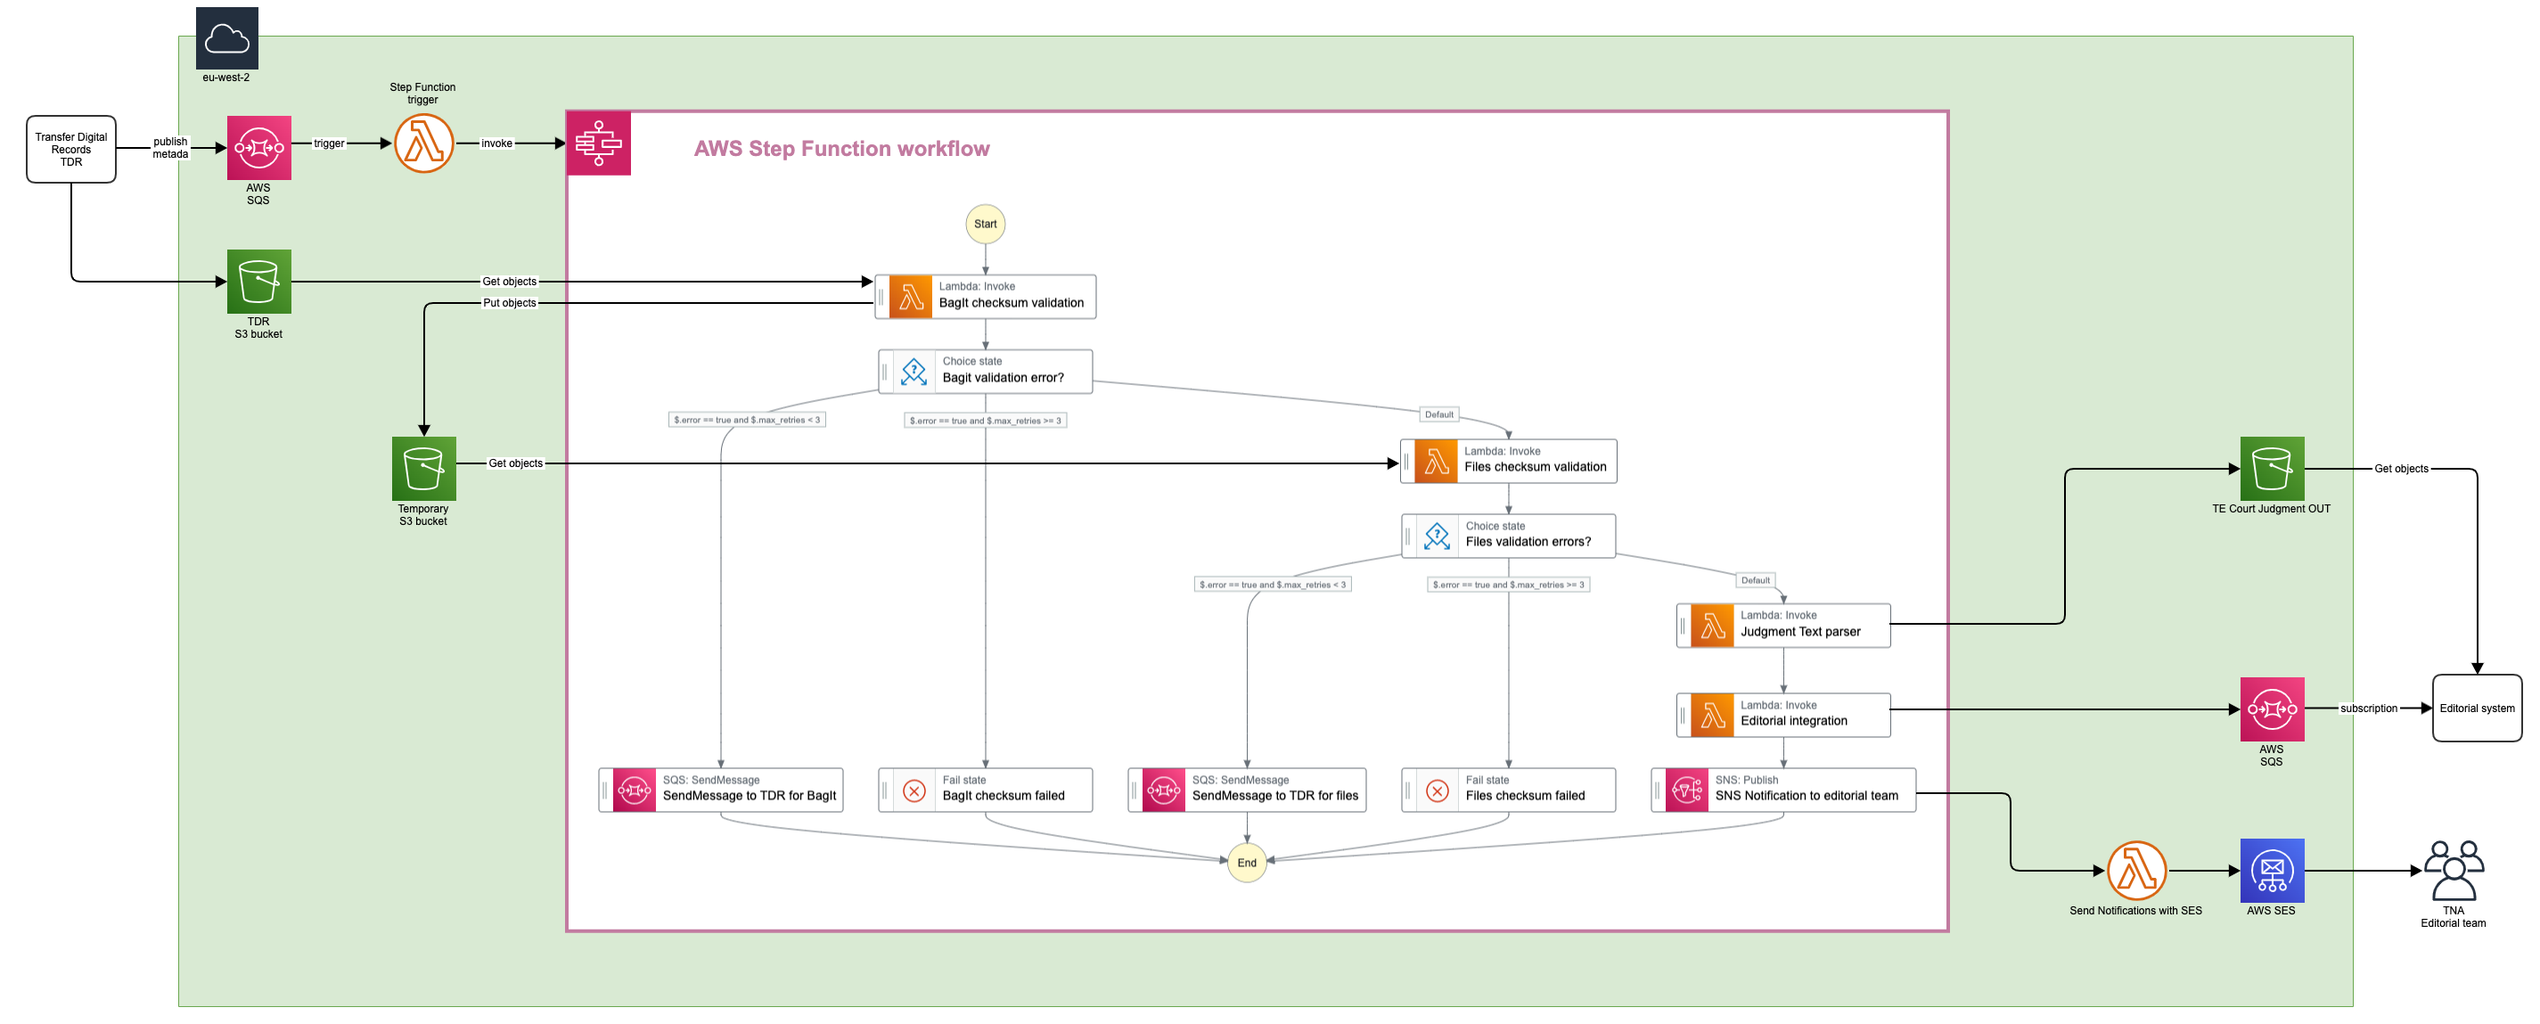
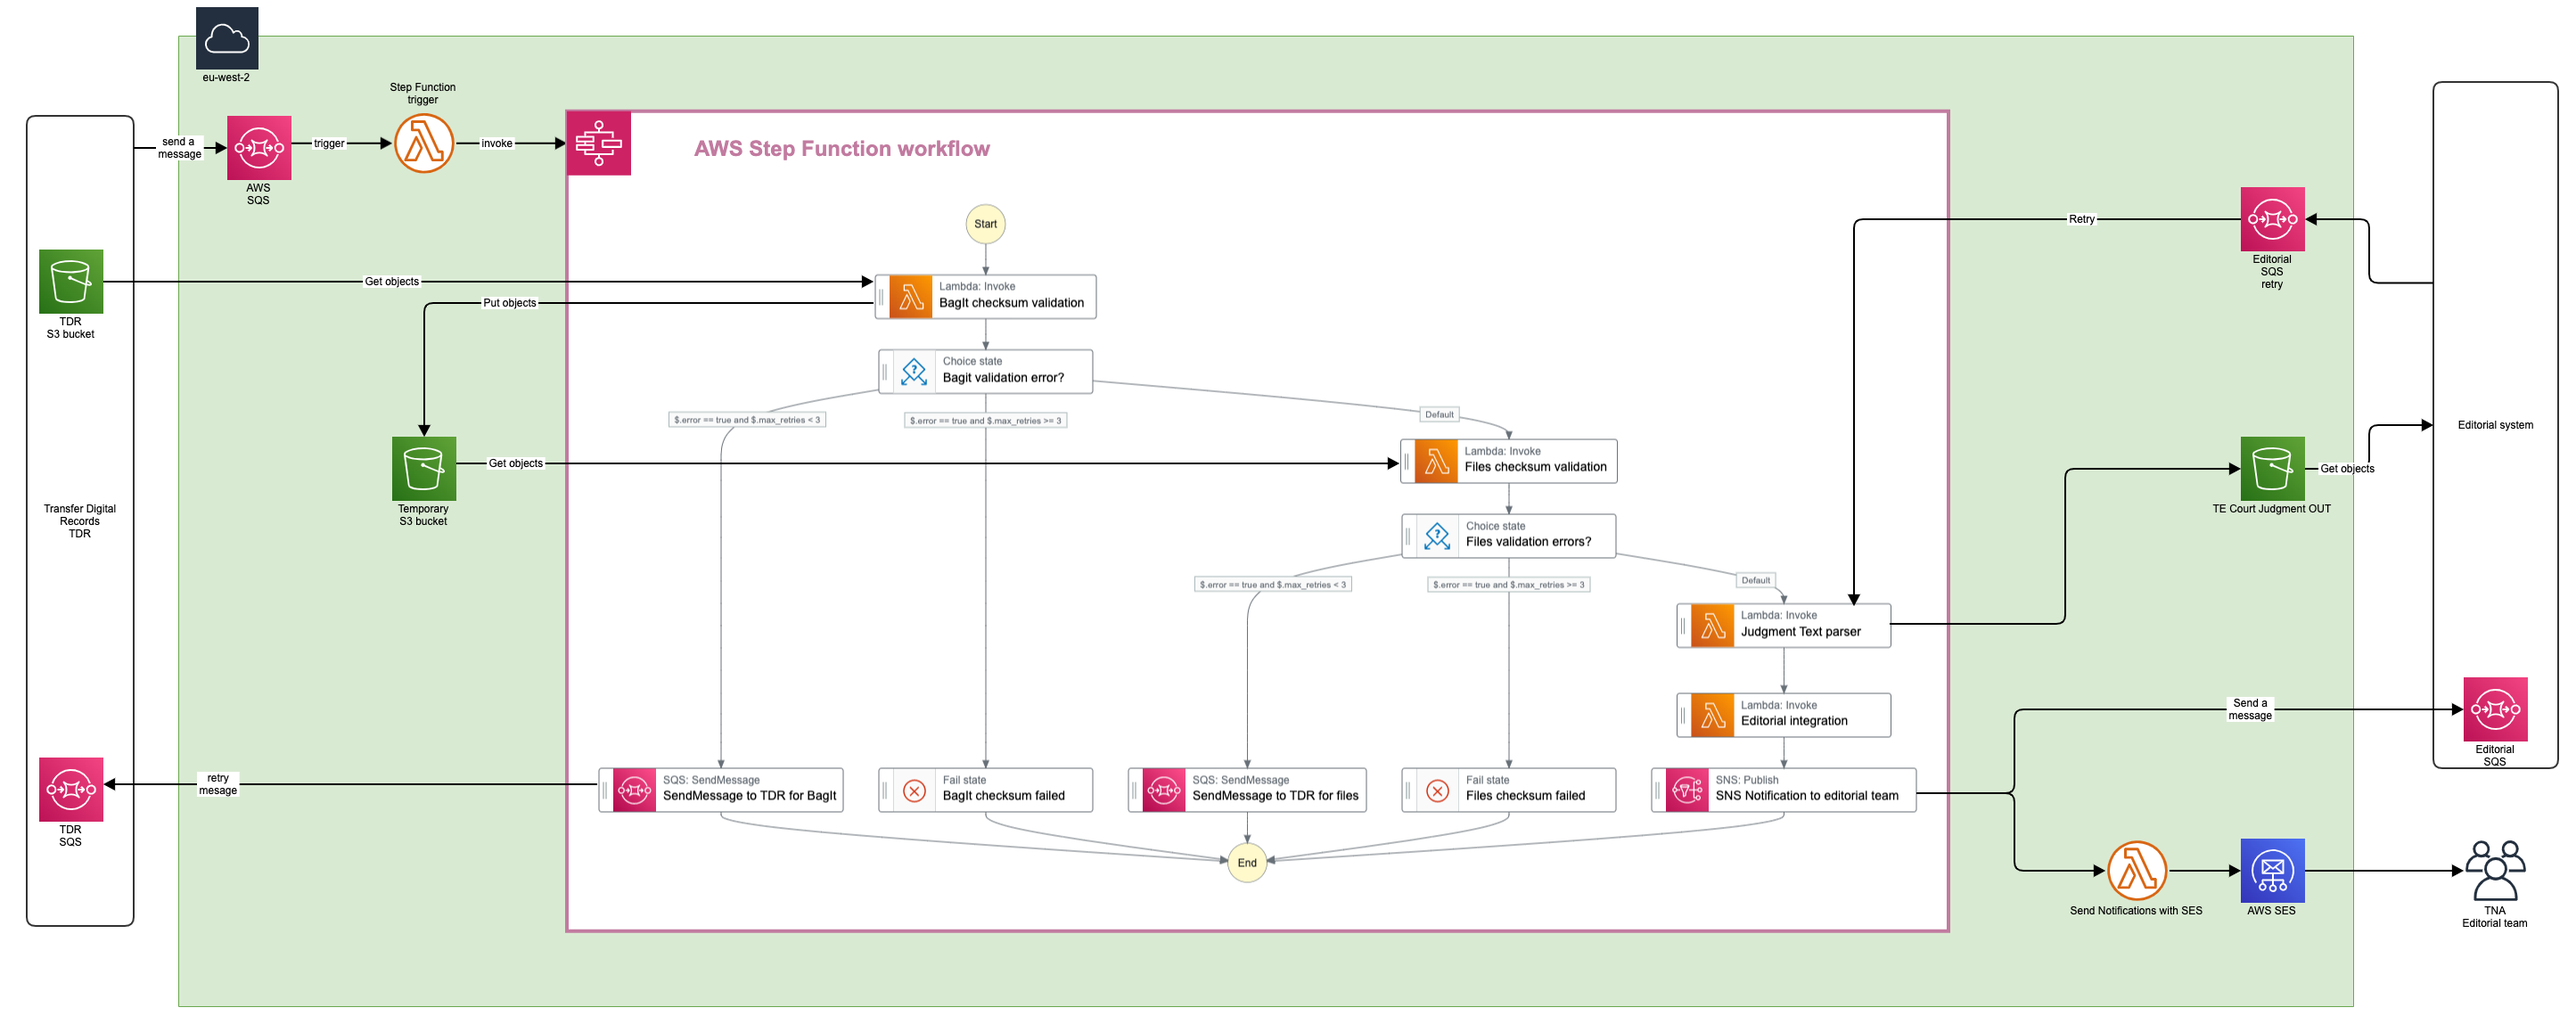
Updated the documentation.

diff --git a/editorial-system-integration/README.md b/editorial-system-integration/README.md
@@ -11,24 +11,29 @@
 ![pic1](../beta-mvp-architecture/diagrams/aws-step-function-workflow-for-te.png)
 
 The TE will produce the following outputs for the Editorial system:
-1. the data payload (i.e., the judgment itself)
+1. the data payload (the judgment itself)
 2. the XML outputs of the parser 
 3. any processing errors so the editorial team can make an assessment on whether the publishing can go ahead
-4. a metadata file (XML or JSON format) which contains the TE version and the text Parser version
+4. a metadata file (in a JSON format) which contains the TE version and the text Parser version, as shown below
+```json
+{
+  "te-version" : "1.0.0",
+  "text-parser-version" : "1.0.1",
+  "uploader-email" : "sample@test.com"
+}
+```
 
 ## Message exchange method and format
 
 TE will exchange messages with Editorial system using an AWS SQS queue as per the [MVP Beta technical design](./../beta-mvp-architecture/README.md). The message will have the following format:
 
 ```json
-
 {
   "consignment-reference": "TDR-2022-C67H",
   "s3-folder-url": "https://te-editorial-out-int.s3.eu-west-2.amazonaws.com/TDR-2022-C67H.tar.gz?X-Amz-Security-Token=IQoJb3JpZ2luX2VjEJf%2F%2F%2F%2F%2F%2F%2F%2F%2F%2FwEaCWV1LXdlc3QtMiJIMEYCIQDLTmaISu2r83kDSVlR%2F1uF1CgUv5rzy4iCG8jsG9%2F5wgIhAIyi2R%2F7XSdm6h7KLPBB6J0RVUCFO%2FWTgBL%2F1vtzKA3YKqQCCPD%2F%2F%2F%2F%2F%2F%2F%2F%2F%2FwEQAhoMMjI5NTU0Nzc4Njc1Igye71PDmIudFYcsh5cq%2BAET%2F7sg5ecibhtmTRT7wpgPySuAet%2FABHE%2B49m53K7v4%2F3NTtTf9grvosoN9iO0DbvoaKaMccLJRlvCeLJ0Alsmh2NQf6w91t75AYKiMQ6oLIXmwc05Ewj2kND3L8uwBsjRoFNReNrWXFW1D7jiqiQpAw6BA05UW9K8%2Fwip55WrYyzBt84btm0Zy2ryVwseFEaOsEHHjglt%2Bl83r1GkGt7iLcJ7ZpvSAp6WjI3zRxqzyXc%2B%2Bs0IsJukZ9P3NQZIbeUADegqDhOq6BHoLTYryajRrSUX3WiGFf%2B7%2FVI55muASwtUYCkR20wQutty2xKMXGVwlZSgpw%2BkiTDsuPOQBjqZAQafrMvrVG5FO5mPvY8rwVfag9z%2FhiOP7juMJ7GEwaNoMouZJvbslIGk6mfOWxfZ1qE99oRlKt9YuF1u53bPynC17N1vfIr9kW2bEsDLxndz35ZRR2yEjwhgwulbZdykVxjc%2BM%2BiDiGrtj53%2BlAOy8xSFZl1AMkBuAtNjAsTqGNyHzLQSJfeb83%2BoOIPe4O4%2B7wM7hStr28rAQ%3D%3D&X-Amz-Algorithm=AWS4-HMAC-SHA256&X-Amz-Date=20220228T143015Z&X-Amz-SignedHeaders=host&X-Amz-Expires=60&X-Amz-Credential=ASIATK4UH6IZTWHYAHCS%2F20220228%2Feu-west-2%2Fs3%2Faws4_request&X-Amz-Signature=c39106d6f8b2e23ab4c896825bdc4489f4fb4bb41d93f4b9ec70e52aa0ad8399",
   "consignment-type": "judgment",
   "number-of-retries": 0
 }
-
 ```
 
 ## Credentials exchange and bucket permissions
@@ -41,4 +46,20 @@ The message will contain [S3 presigned URLs](https://docs.aws.amazon.com/AmazonS
 
 ## Retry mechanism
 
-To Do
+The retry mechanism is implemented using an additional AWS SQS queue in the AWS where the TE is deployed, as shown in the diagram above:
+
+1. the editorial system should provide TE with an AWS IAM Role in order to be able to write messages to the queue
+2. the structure of the message is the same structure defined above, with the increment of the field "number-of-retries" an empty field for "s3-folder-url" 
+```json
+  {
+    "consignment-reference": "TDR-2022-C67H",
+    "s3-folder-url": "",
+    "consignment-type": "judgment",
+    "number-of-retries": 1
+  }
+```
+3. when a new message is sent, the TE will trigger again the text parser stage 
+4. once the text parser stage is complete, TE will notify again the editorial system about the new output from the text parser
+5. the max number of ritries is set to 3
+6. after 3 attempts TE will go to a state error
+7. for each retry, the editorial system will increment the field "number-of-retries"
